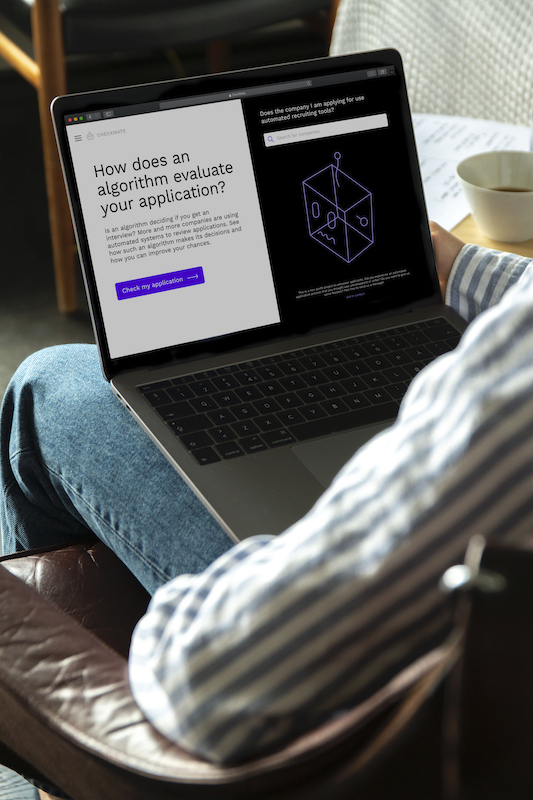
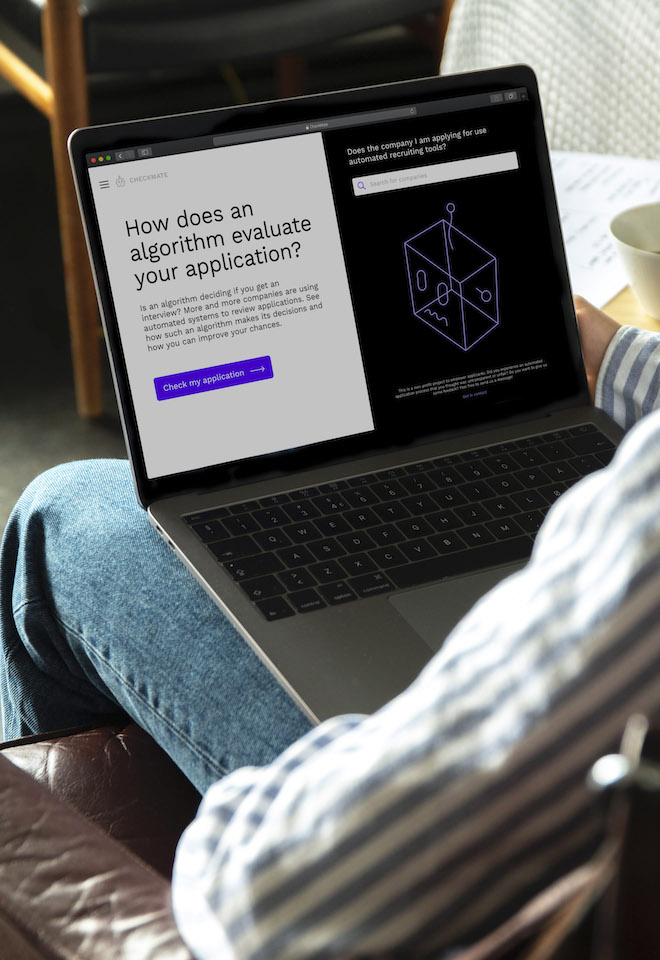
Pictures changed

diff --git a/index.html b/index.html
@@ -90,7 +90,7 @@ $(window).on("load",function(){
         <br>
         <small>With the rise of Artificial Intelligence in recruitment, more and more job applications are evaluated by automated systems. Explore four digital interventions that explain, question or disrupt the role of AI in hiring.</small>
         <br>
-        <small id="purple"><br>&#8595; Scroll to follow the story </small>
+        <small id="lavender"><br>&#8595; Scroll to follow the story </small>
       </div>
     </div>
 
@@ -213,7 +213,7 @@ $(window).on("load",function(){
     <div class="smallsection">
       <div class="option" id="A">
         <div class="largecontent">
-          <h2><span id="mint">A.</span> Informed</h2>
+          <h2><span id="mintnormal">A.</span> Informed</h2>
           <p>You are able to improve your next application and manage to get your CV in the hands of the recruiter.</p>
         </div>
       </div>
@@ -248,7 +248,7 @@ $(window).on("load",function(){
     <div class="smallsection">
       <div class="largecontent">
         <p>The section about <i>Matching Skills</i> catches your attention. You click on 'Learn More'. It takes you to an affiliated webservice called ‘CHECKMATE’.</p>
-        <br><p><span id="purple">Try out the interactive prototype to the right &#8594;</span></p>
+        <br><small><span id="purple">Try out the interactive prototype to the right &#8594;</span></small>
       </div>
     </div>
 
@@ -269,7 +269,7 @@ $(window).on("load",function(){
     <div class="smallsection">
       <div class="option" id="A">
         <div class="largecontent">
-          <h2><span id="mint">A.</span> Yes</h2>
+          <h2><span id="mintnormal">A.</span> Yes</h2>
           <p>You get overly reliant on the tool. As a result, your applications look increasingly generic. You often get past the automated screening systems. But the human recruiters? Not so much.</p>
         </div>
       </div>
@@ -318,7 +318,7 @@ $(window).on("load",function(){
       <div class="largecontent">
         <p>While casually browsing CV optimisation tools and self-branding clickbait, you notice a sponsored ad for HireHaxx.
 		<br><br>Wait... wasn't someone on the gamer forums talking about it too?</p>
-    <br><p><span id="purple">Try out the interactive prototype to the right &#8594;</span></p>
+    <br><small><span id="purple">Try out the interactive prototype to the right &#8594;</span></small>
     </div>
   </div>
 
@@ -330,7 +330,7 @@ $(window).on("load",function(){
 
     <div class="smallsection">
       <div class="largecontent">
-        <p><span id="bold">You con your way to the next round.<br>Do you get...?</span></p>
+        <p><span id="boldwhite">You con your way to the next round.<br>Do you get...?</span></p>
       </div>
     </div>
 
@@ -379,7 +379,7 @@ $(window).on("load",function(){
       <div class="content">
         <p>You are a law graduate and a mother of two. <br><br>You have applied for almost fifty jobs now, but no interviews come your way. You can't help but wonder if your name or background have something to do with the refusals.
 		     <br><br>You decide to be a volunteer.</p>
-        <br><p><span id="purple">Try out the interactive prototype to the right &#8594;</span></p>
+        <br><small><span id="purple">Try out the interactive prototype to the right &#8594;</span></small>
       </div>
     </div>
 
@@ -391,14 +391,14 @@ $(window).on("load",function(){
 
     <div class="smallsection">
       <div class="largecontent">
-        <p><span id="bold">Does this help your chances?</span></p>
+        <p><span id="boldwhite">Does this help your chances?</span></p>
       </div>
     </div>
 
     <div class="smallsection">
       <div class="option" id="A">
         <div class="largecontent">
-          <h2><span id="mint">A.</span> Yes</h2>
+          <h2><span id="mintnormal">A.</span> Yes</h2>
           <p>You avoid being subject to an age bias, and get hired as the sole law consultant in your age group. Following a successful career stint, you are appointed to the firm's Diversity Board to hire more talent.</p>
         </div>
       </div>

diff --git a/fontstyles.css b/fontstyles.css
@@ -132,8 +132,19 @@ hr {
   font-weight: 500;
 }
 
+#mintnormal {
+  -webkit-text-fill-color: #90FFBC; /* Will override color (regardless of order) */
+  -webkit-text-stroke-width: 0;
+}
+
 #bold {
   -webkit-text-fill-color: black; /* Will override color (regardless of order) */
+  -webkit-text-stroke-width: 0;
+  font-weight: 500;
+}
+
+#boldwhite {
+  -webkit-text-fill-color: white; /* Will override color (regardless of order) */
   -webkit-text-stroke-width: 0;
   font-weight: 500;
 }
